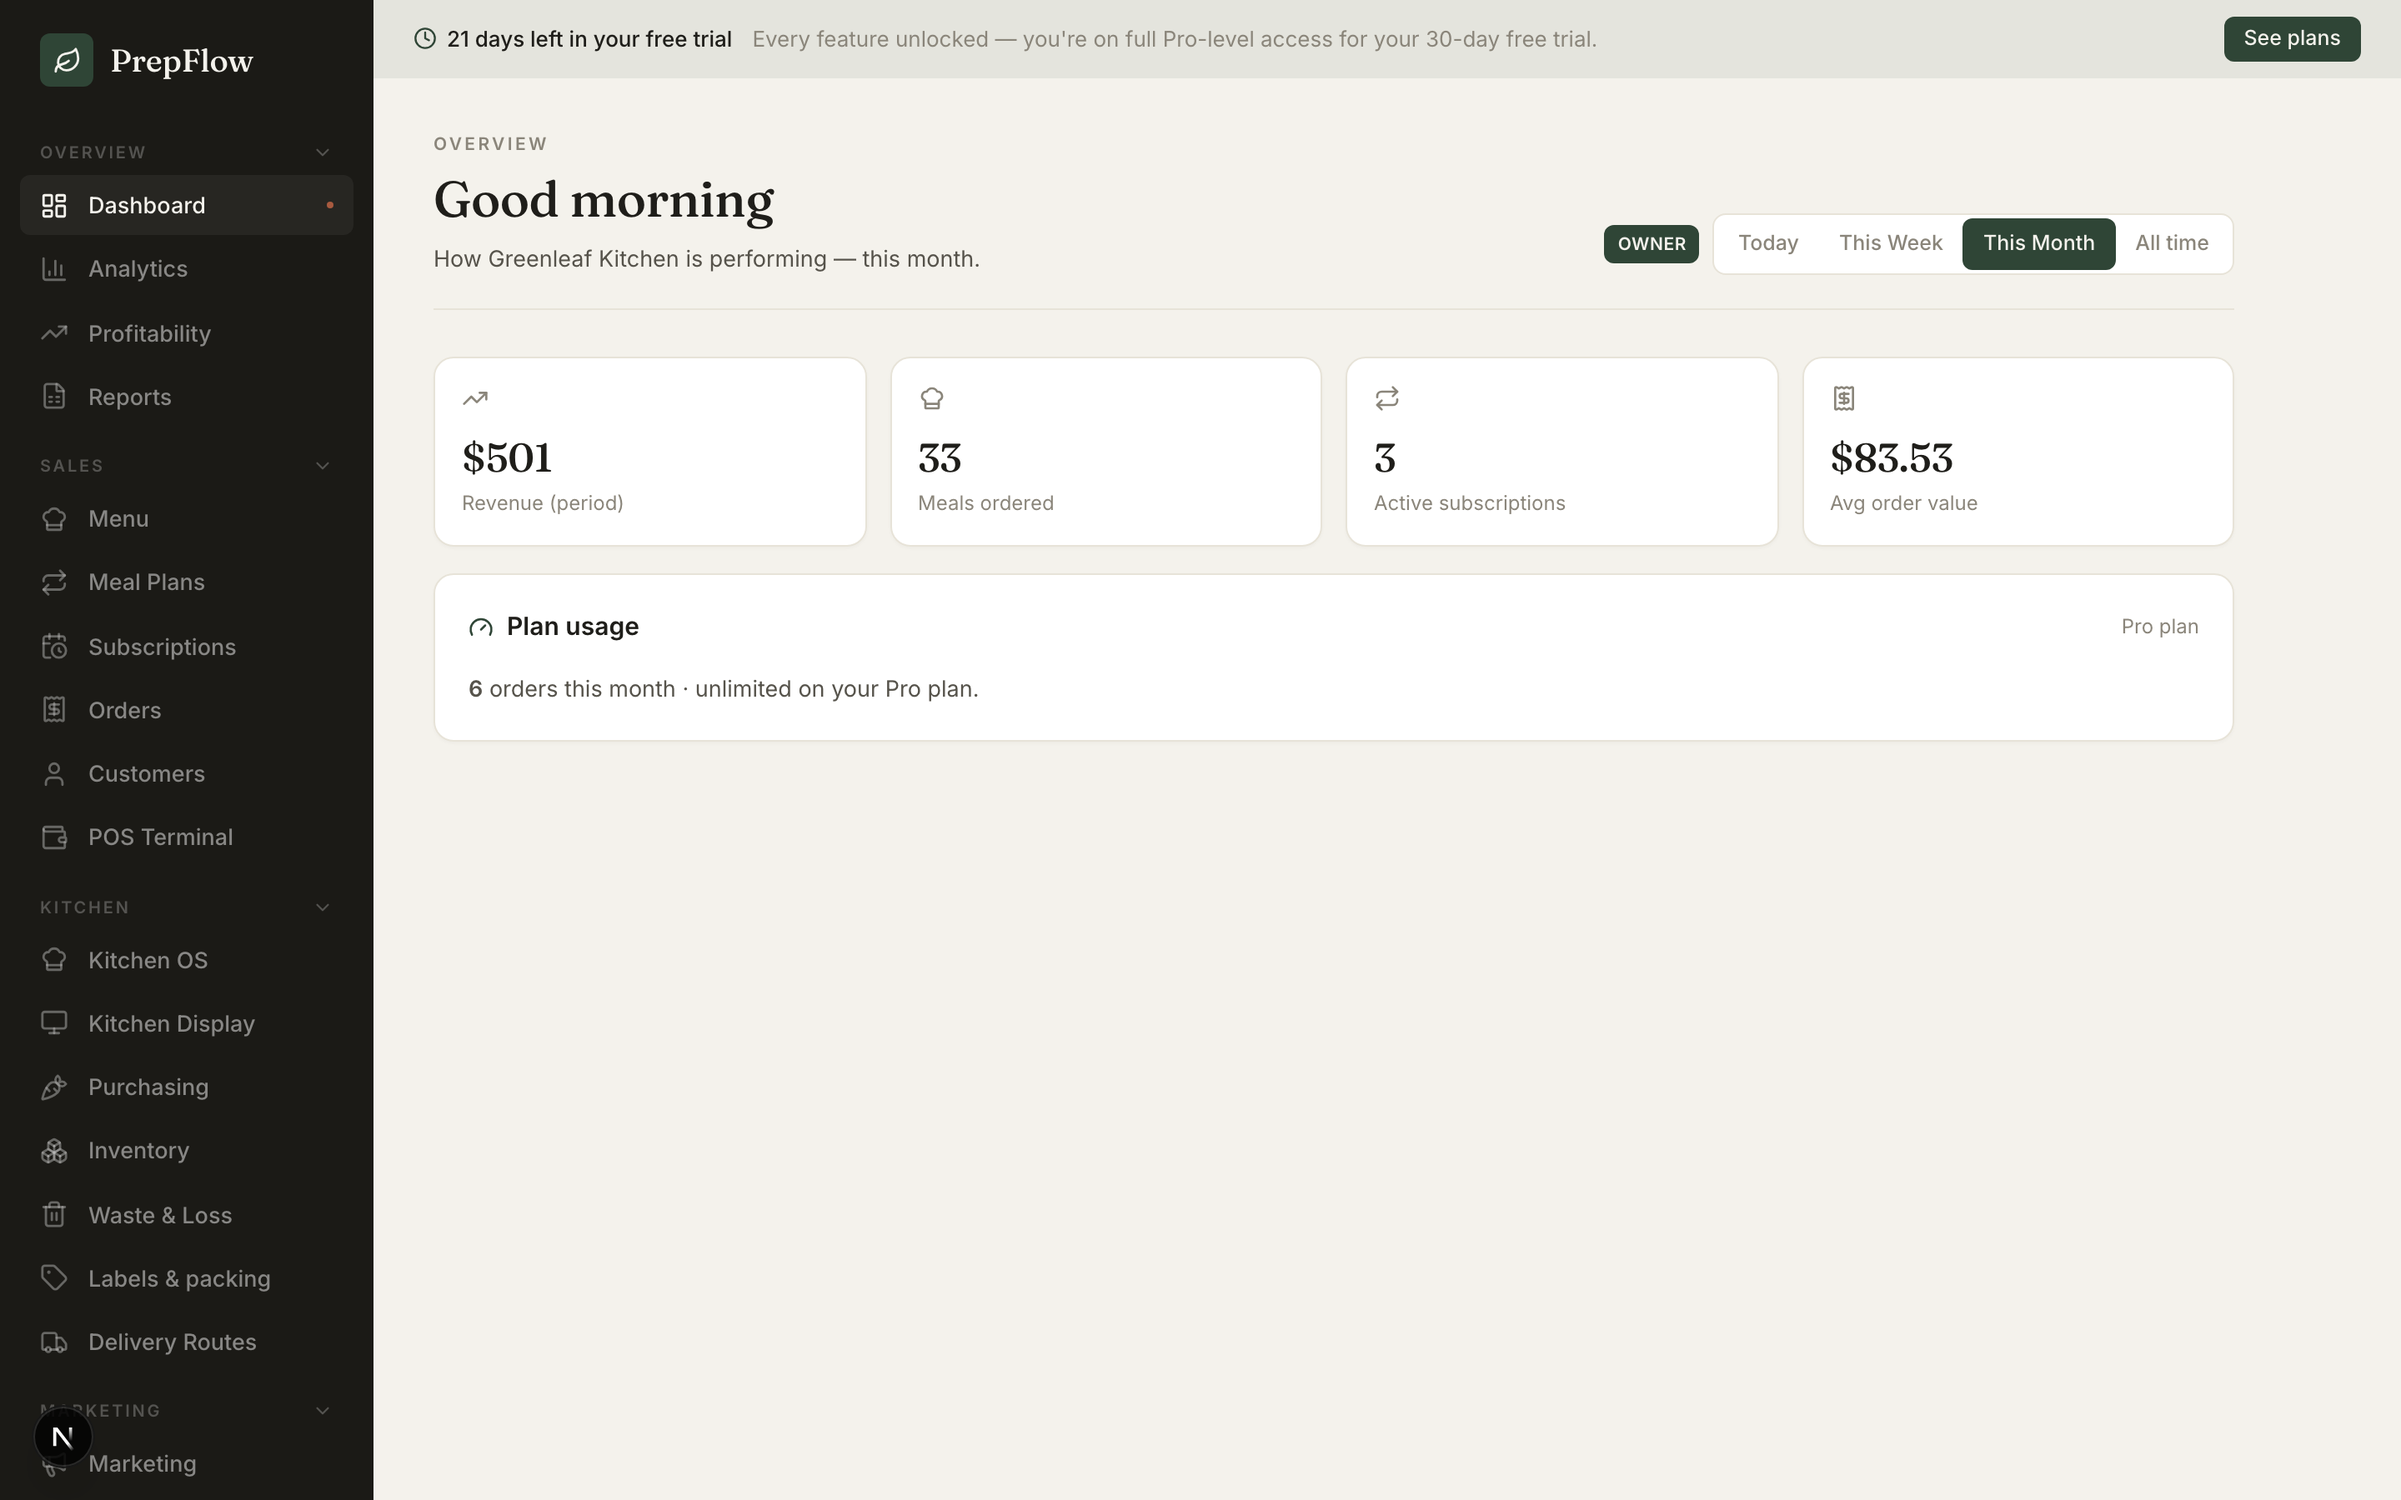
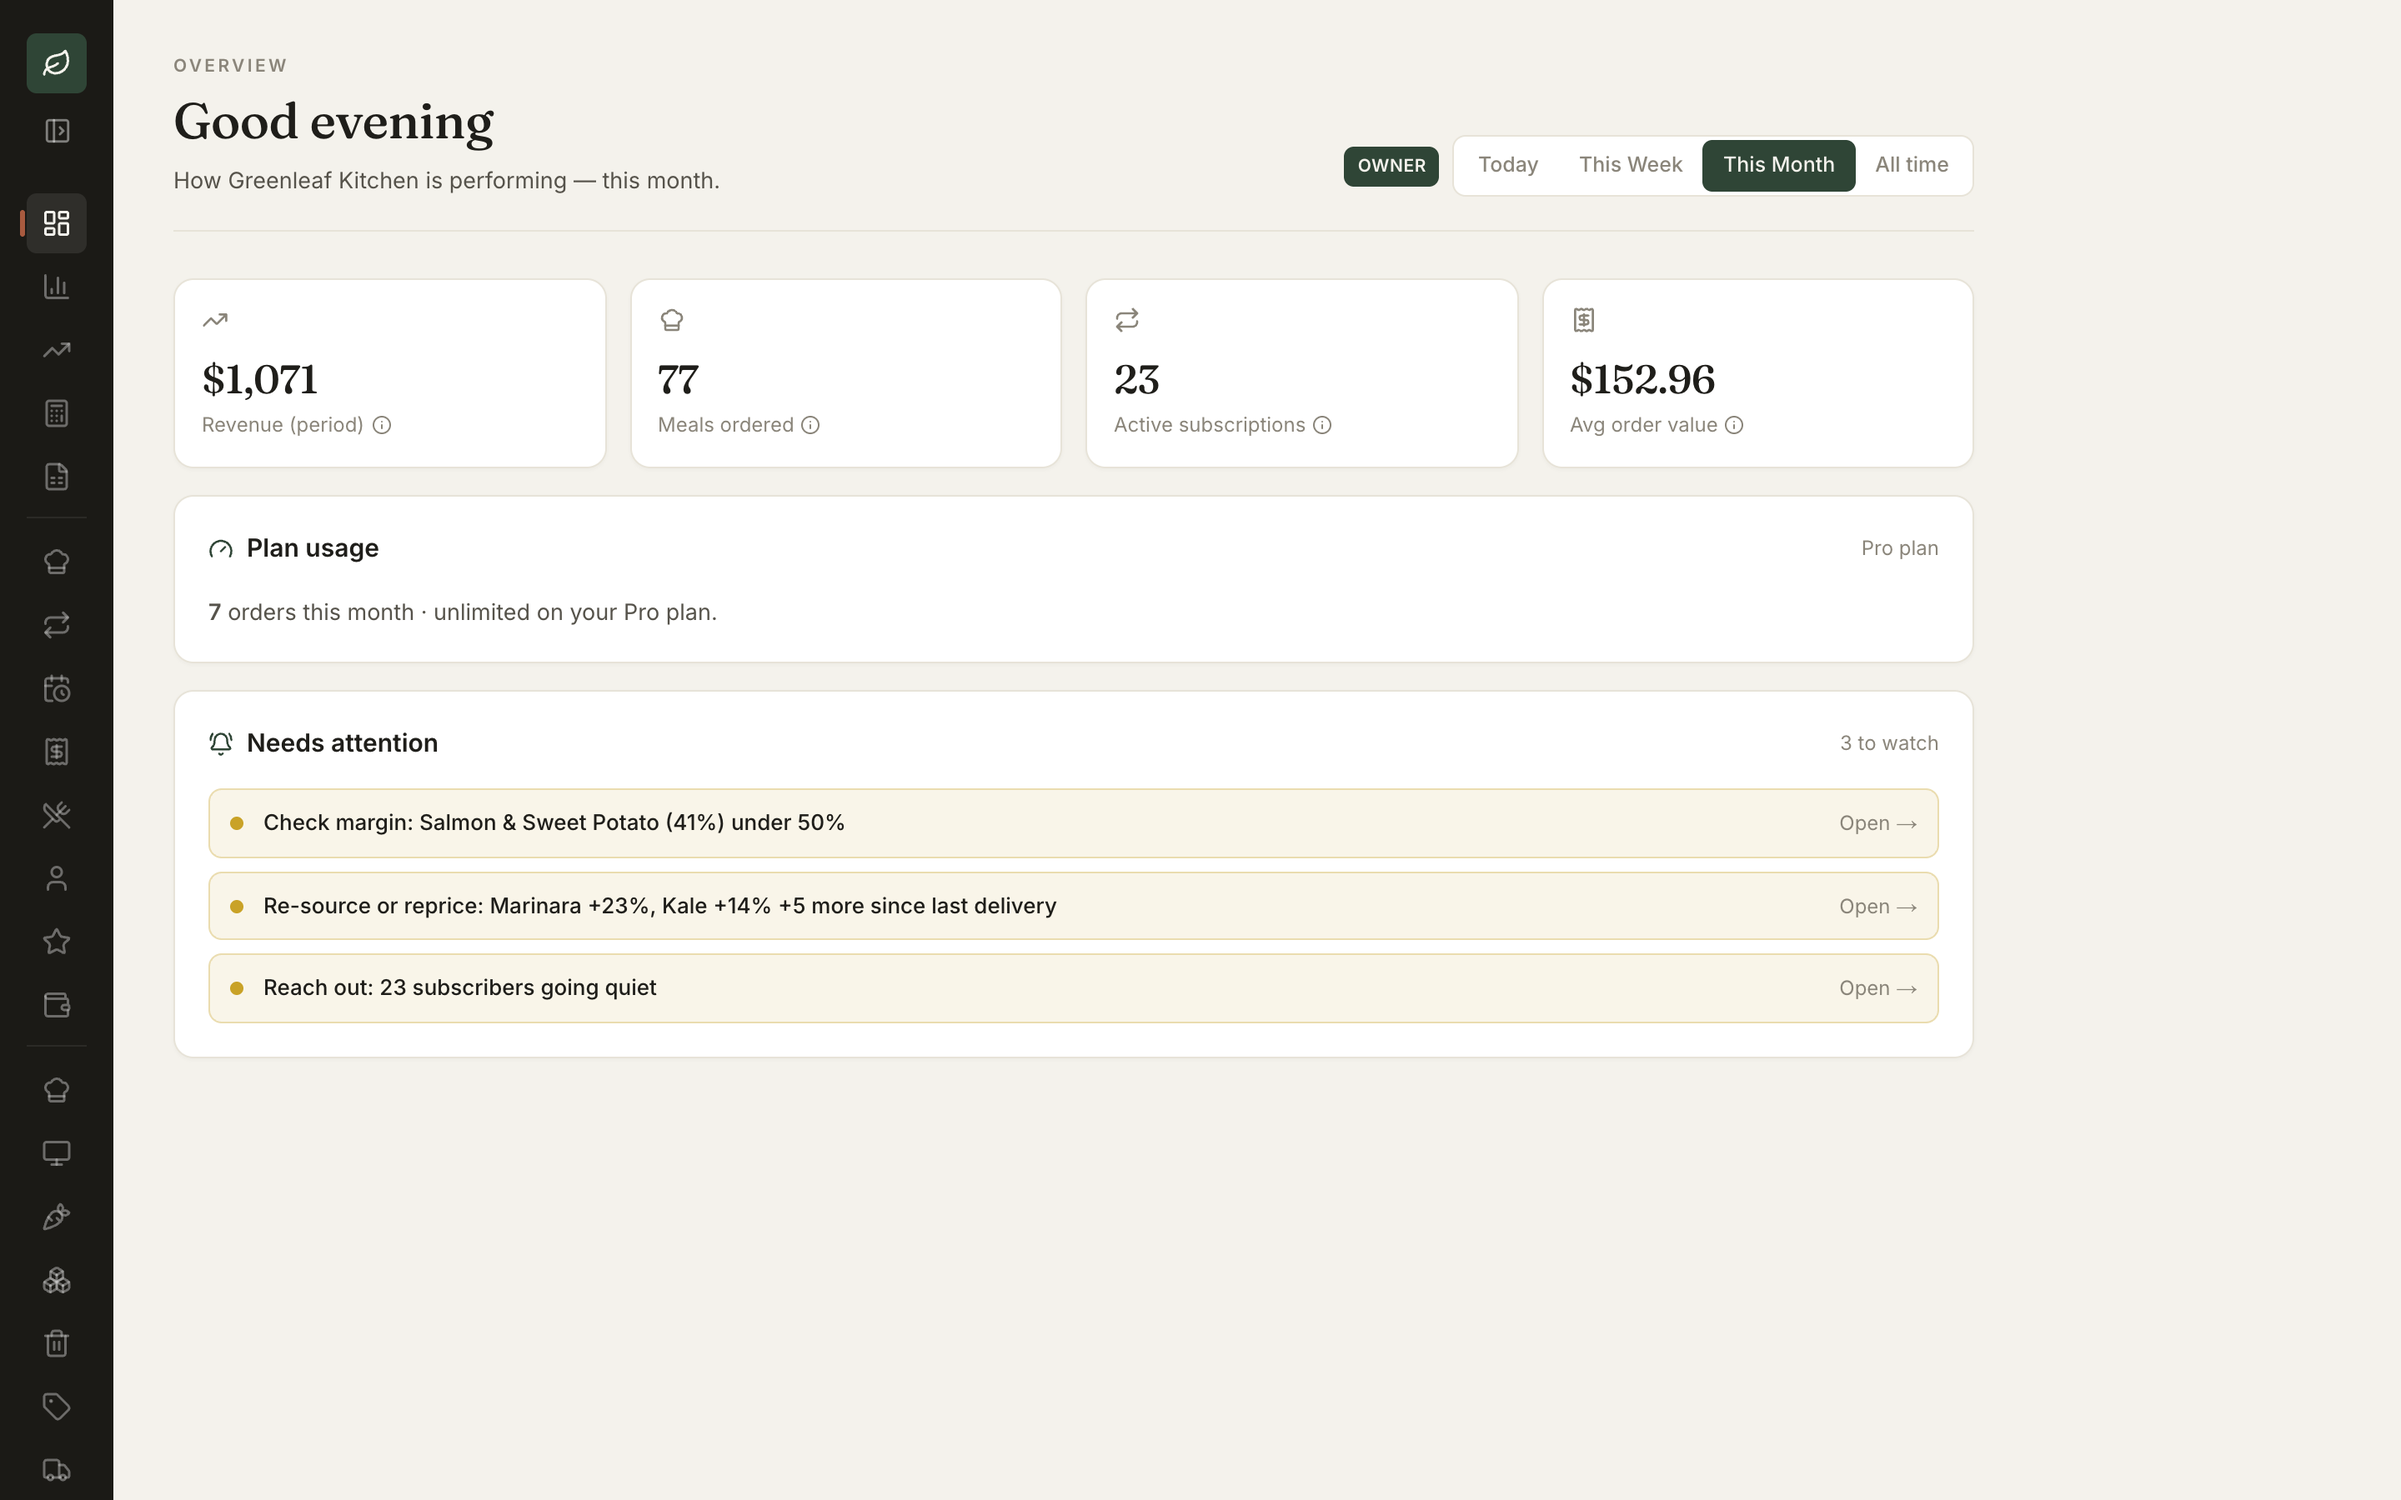
feat(demo): refresh the guided tour — 12 steps, new screenshots, three new stories
Tour hadn't changed since Sep 21. Adds "Subscriptions that run themselves"
(picks, cut-off, extras, auto-pick), "Know your market" (Nearby prices + plan
comparison) and "Delivery, done right" (zones, routes, dispatch checklist);
storefront step now shows the postal-code plan picker; copy updated for
catering, photos, campaign templates, invoice scanning and menu-from-photo.
All 12 screenshots retaken at 2x from the current app (fictional competitors
only). Routes: "1 meal" plural fix.

diff --git a/src/app/demo/demo-tour.tsx b/src/app/demo/demo-tour.tsx
@@ -16,6 +16,9 @@ import {
   Megaphone,
   Trash2,
   Upload,
+  Repeat,
+  Radar,
+  Truck,
   type LucideIcon,
 } from "lucide-react";
 import { ATTRIB_COOKIE } from "@/lib/attribution";
@@ -40,28 +43,42 @@ const STEPS: Step[] = [
     kicker: "The owner's view",
     title: "Your whole kitchen on one screen",
     blurb:
-      "The moment you log in: real revenue, meals ordered, active subscriptions, and exactly how your week is tracking. No spreadsheets, no guessing.",
+      "The moment you log in: real revenue, meals ordered, active subscriptions, and what needs your attention today — act-now items first, then things to watch. No spreadsheets, no guessing.",
     points: [
       "Live revenue, orders, and average order value",
       "Active subscriptions and plan usage at a glance",
-      "Everything below rolls up from real orders",
+      "A needs-attention panel that ranks what matters this morning",
     ],
     img: "/demo/overview.png",
-    imgAlt: "PrepFlow owner dashboard showing revenue, meals ordered, and subscriptions",
+    imgAlt: "PrepFlow owner dashboard showing revenue, meals ordered, subscriptions, and the needs-attention panel",
   },
   {
     icon: Store,
     kicker: "What your customers see",
     title: "A storefront customers actually enjoy",
     blurb:
-      "Your own branded ordering page — subscription plans, one-time orders, dietary filters, macros and reviews on every meal. Customers order themselves.",
+      "Your own branded ordering page: subscription plans, one-time orders, dietary filters, macros, photos and verified reviews on every meal. Customers order themselves. Run it on your own domain, or sell plans only and hide the cart.",
     points: [
-      "Weekly or bi-weekly subscription plans, priced your way",
-      "Diet filters, calories, protein, and star reviews per meal",
-      "Stop taking orders by text and DM — it runs itself",
+      "Weekly or bi-weekly plans; the postal code sets the delivery day and fee",
+      "Diet filters, calories, protein, photos and star reviews per meal",
+      "Catering requests, gift cards and coupons — all on the same page",
     ],
-    img: "/demo/storefront.jpg",
-    imgAlt: "Branded customer storefront with subscription plans and meal cards",
+    img: "/demo/storefront.png",
+    imgAlt: "Branded customer storefront with the postal-code plan picker and meal cards",
+  },
+  {
+    icon: Repeat,
+    kicker: "Subscriptions that run themselves",
+    title: "Customers pick their meals. You don't chase them.",
+    blurb:
+      "Subscribers choose each week's meals in their account before your cut-off, skip or pause when they travel, and add extras at their plan price. Miss the cut-off? PrepFlow picks a box from what they've enjoyed before. At the cut-off every subscriber becomes a paid order, zoned and ready for the kitchen.",
+    points: [
+      "Reminder emails before the cut-off; picks lock when it passes",
+      "Extras beyond the plan ride in the same box, billed on the next payment",
+      "No picks? Auto-picked from their history — or skipped, your call",
+    ],
+    img: "/demo/subscriptions.png",
+    imgAlt: "Subscriptions screen showing each subscriber's plan, zone, next delivery and whether they've picked",
   },
   {
     icon: TrendingUp,
@@ -100,38 +117,66 @@ const STEPS: Step[] = [
     points: [
       "Buy the right quantity, calculated from what's actually ordered",
       "See the true usable cost hiding behind the invoice price",
-      "The margin number most kitchens have never seen before",
+      "Snap a supplier invoice and the prices update themselves",
     ],
     img: "/demo/purchasing.png",
     imgAlt: "Trim-aware purchasing list showing true usable-yield cost per ingredient",
+  },
+  {
+    icon: Radar,
+    kicker: "Know your market",
+    title: "What the kitchen down the road charges",
+    blurb:
+      "Watch nearby competitors and PrepFlow reads their public menu prices for you — exact where the store exposes them, estimated and marked where it has to read the page. See where each of your meals sits, and how your weekly plans compare at the same plan size.",
+    points: [
+      "Dish-by-dish: nearby range, median, and where you sit",
+      "Weekly plans vs nearby per-meal prices at the same plan size",
+      "A Price Coach that suggests a move and shows the dollars",
+    ],
+    img: "/demo/market.png",
+    imgAlt: "Nearby prices card comparing the kitchen's meals and plans with competitors",
   },
   {
     icon: ChefHat,
     kicker: "Kitchen operations",
     title: "The kitchen runs the day off it",
     blurb:
-      "The production report tells the team exactly what to make and how much, grouped by meal and station. Labels, packing, and delivery flow from the same orders.",
+      "The production report tells the team exactly what to make and how much, grouped by meal and station — one-time orders, subscriber picks and catering events together. Labels, packing slips and delivery flow from the same orders.",
     points: [
       "Production quantities pulled straight from orders",
       "Grouped by station so the line knows what to cook",
-      "One source of truth — no clipboards, no double entry",
+      "Nutrition labels and packing slips from the same list — no double entry",
     ],
     img: "/demo/kitchen.png",
     imgAlt: "Kitchen production report grouped by meal and station",
+  },
+  {
+    icon: Truck,
+    kicker: "Delivery, done right",
+    title: "Zones, routes, and every bag ticked out the door",
+    blurb:
+      "Split your area by postal code: each zone gets its own delivery day and fee, and customers land in the right one automatically — subscribers too. On delivery day, Routes groups the drops by zone with a dispatch checklist so nothing is left on the counter.",
+    points: [
+      "Delivery zones with their own days and fees, set once",
+      "Routes grouped by zone, with delivery date and meal count per stop",
+      "Dispatch checklist: tick each bag out, or print it for the driver",
+    ],
+    img: "/demo/routes.png",
+    imgAlt: "Delivery routes grouped by zone with a dispatch checklist",
   },
   {
     icon: Megaphone,
     kicker: "Grow sales",
     title: "Promotion & marketing, built in",
     blurb:
-      "Run coupons and gift cards customers redeem at checkout, and send email campaigns to bring lapsed diners back and reward your regulars — no separate tools.",
+      "Run coupons and gift cards customers redeem at checkout, and send email campaigns from ready-made templates for the week — or let PrepFlow write one in your voice. Abandoned-cart nudges, win-back and review requests run on their own.",
     points: [
       "Create coupons and gift cards",
-      "Email campaigns to all customers, lapsed, or subscribers",
-      "Add a photo and simple formatting to make it look sharp",
+      "Campaign templates for the season, or \"write it for me\"",
+      "Win-back, abandoned-checkout and review emails, automatic",
     ],
     img: "/demo/marketing.png",
-    imgAlt: "Marketing screen with coupons, gift cards, and an email campaign composer",
+    imgAlt: "Marketing screen with coupons, gift cards, and an email campaign composer with templates",
   },
   {
     icon: Trash2,
@@ -152,10 +197,10 @@ const STEPS: Step[] = [
     kicker: "Getting started",
     title: "Import in an afternoon, live in days",
     blurb:
-      "Bring your menu, customers, subscriptions, and current inventory over from a spreadsheet. Most kitchens finish the import in an afternoon and run their first guided production cycle within the week — you're not rebuilding from scratch.",
+      "Bring your menu, customers, subscriptions, and current inventory over from a spreadsheet — or photograph your printed menu and let PrepFlow read it. Most kitchens finish the import in an afternoon and run their first guided production cycle within the week.",
     points: [
       "CSV import for menu, customers, subscriptions, and stock",
-      "Keep your recipes, prices, and active subscribers",
+      "Menu from a photo, recipes and prices kept",
       "Your guide can walk you through this on the call",
     ],
     img: "/demo/import.png",

diff --git a/src/app/dashboard/routes/page.tsx b/src/app/dashboard/routes/page.tsx
@@ -85,7 +85,7 @@ export default async function RoutesPage() {
                       <div className="text-[12px] truncate" style={{ color: "var(--muted)" }}>{o.address ?? "No address on file"}</div>
                     </div>
                     <span className="text-[12px] shrink-0" style={{ color: "var(--ink-soft)" }}>
-                      {o.deliveryDate ? `${dayFmt.format(o.deliveryDate)} · ` : ""}{o._count.items} meals · #{o.id.slice(-6)}
+                      {o.deliveryDate ? `${dayFmt.format(o.deliveryDate)} · ` : ""}{o._count.items} meal{o._count.items === 1 ? "" : "s"} · #{o.id.slice(-6)}
                     </span>
                   </div>
                 ))}
